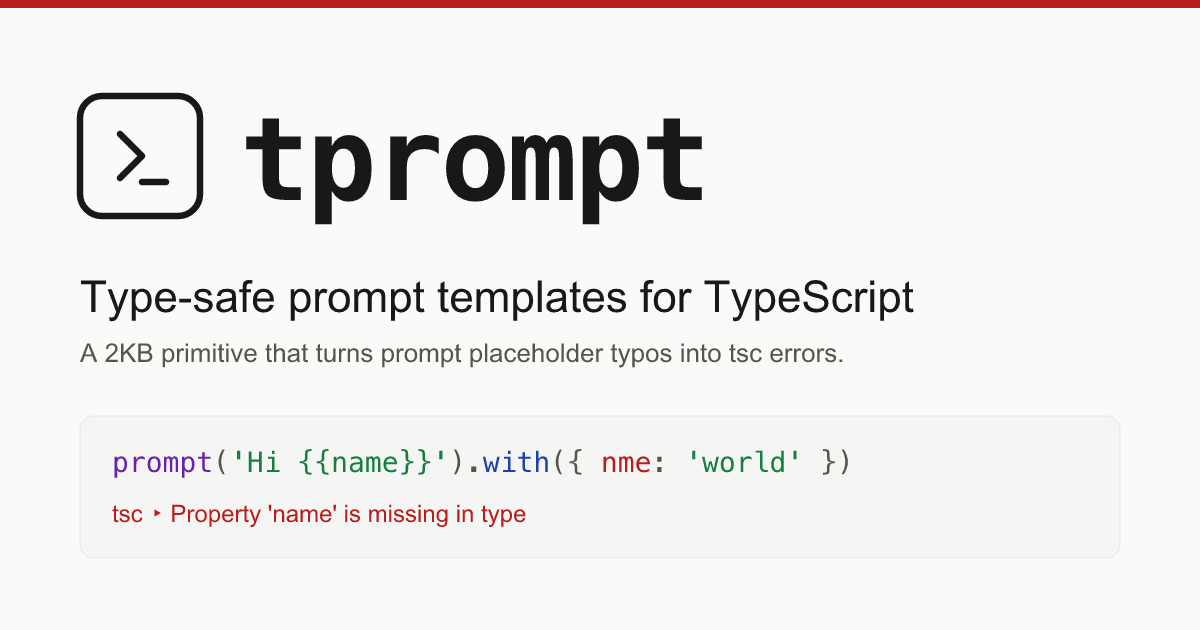
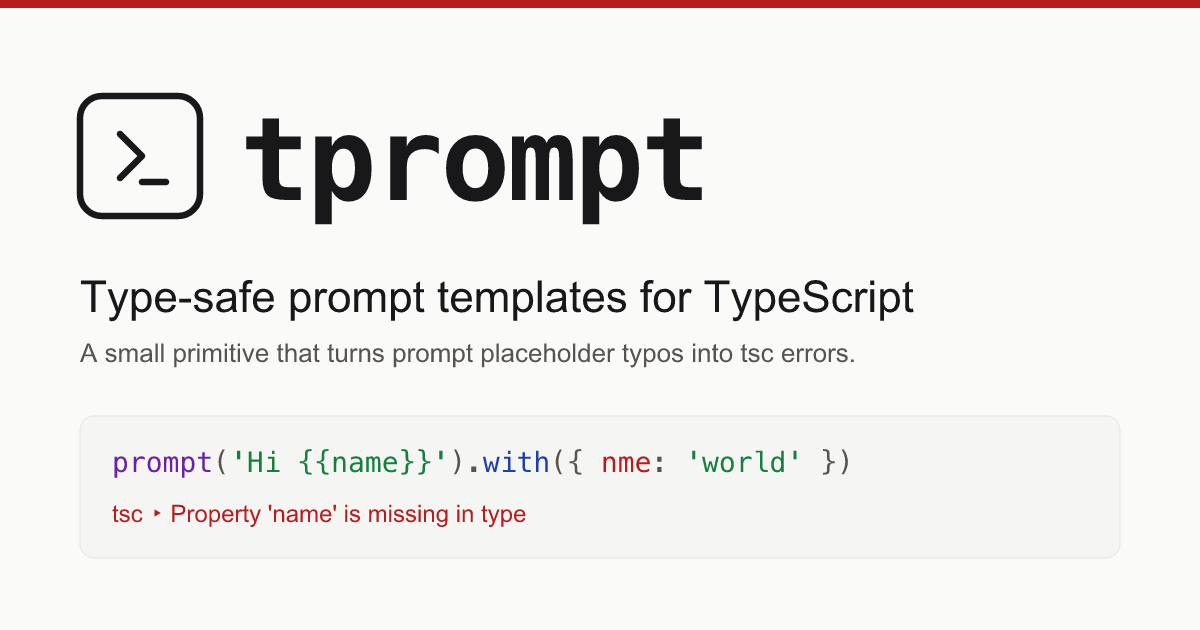
chore: correct stale 2KB size claim across docs site
package.json and README already state accurate figures (~6.5KB
unminified, ~1.4KB gzipped, measured from a fresh dist build). The
docs-site marketing copy and CONTEXT.md still quoted the old 2KB
figure in meta tags, hero copy, the guide page and the OG image.
Regenerated og.png from the updated og.svg.

ADR historical records (docs/adr/000{2,3}) keep their original 2KB
wording intentionally: they document decision-time rationale.

Changed region(s): [[0.0925, 0.5429, 0.7092, 0.573]]

diff --git a/docs-site/src/app.html b/docs-site/src/app.html
@@ -6,7 +6,7 @@
     <meta name="viewport" content="width=device-width, initial-scale=1" />
     <meta
       name="description"
-      content="Type-safe prompt template library for TypeScript. A 2KB primitive that turns prompt placeholder typos into tsc errors."
+      content="Type-safe prompt template library for TypeScript. A small (~1.4KB gzipped) primitive that turns prompt placeholder typos into tsc errors."
     />
     <title>tprompt — type-safe prompt templates for TypeScript</title>
 
@@ -18,7 +18,7 @@
     <meta property="og:title" content="tprompt — type-safe prompt templates for TypeScript" />
     <meta
       property="og:description"
-      content="A 2KB primitive that turns prompt placeholder typos into tsc errors before they reach the model."
+      content="A small (~1.4KB gzipped) primitive that turns prompt placeholder typos into tsc errors before they reach the model."
     />
     <meta property="og:url" content="https://tprompt.pages.dev/" />
     <meta property="og:image" content="https://tprompt.pages.dev/og.png" />
@@ -34,7 +34,7 @@
     <meta name="twitter:title" content="tprompt — type-safe prompt templates for TypeScript" />
     <meta
       name="twitter:description"
-      content="A 2KB primitive that turns prompt placeholder typos into tsc errors before they reach the model."
+      content="A small (~1.4KB gzipped) primitive that turns prompt placeholder typos into tsc errors before they reach the model."
     />
     <meta name="twitter:image" content="https://tprompt.pages.dev/og.png" />
     <meta

diff --git a/docs-site/src/routes/+page.svelte b/docs-site/src/routes/+page.svelte
@@ -8,7 +8,7 @@
   <title>tprompt — type-safe prompt templates for TypeScript</title>
   <meta
     name="description"
-    content="A 2KB primitive that turns prompt placeholder typos into tsc errors before they reach the model."
+    content="A small (~1.4KB gzipped) primitive that turns prompt placeholder typos into tsc errors before they reach the model."
   />
 </svelte:head>
 
@@ -17,14 +17,14 @@
     <div class="hero-copy">
       <span class="badge">
         <span class="dot" aria-hidden="true"></span>
-        v{version} · MIT · 2KB · zero deps
+        v{version} · MIT · ~1.4KB gzip · zero deps
       </span>
       <h1>
         Catch prompt typos<br />
         <span class="accent">before</span> they reach the&nbsp;model.
       </h1>
       <p class="lede">
-        <strong>tprompt</strong> is a 2KB TypeScript primitive that turns
+        <strong>tprompt</strong> is a small (~1.4KB gzipped) TypeScript primitive that turns
         <code>{'{{usrName}}'}</code>
         into a <code>tsc</code> error — not a silent runtime string the model receives.
       </p>
@@ -132,7 +132,7 @@ greet.<span class="fn">with</span>(&lbrace; <span class="bad">usrName</span>: <s
           />
         </svg>
       </div>
-      <h3>2KB. Zero deps.</h3>
+      <h3>~1.4KB gzipped. Zero deps.</h3>
       <p>
         <code>sideEffects: false</code>, ESM source, dual-published. Validation
         is structural — bring Zod, Valibot, ArkType, or your own.

diff --git a/CONTEXT.md b/CONTEXT.md
@@ -1,6 +1,6 @@
 # tprompt
 
-A 2KB TypeScript library that makes LLM prompt variables a first-class type. A typo in `{{usrName}}` becomes a `tsc` error before it reaches the model.
+A small (~1.4KB gzipped) TypeScript library that makes LLM prompt variables a first-class type. A typo in `{{usrName}}` becomes a `tsc` error before it reaches the model.
 
 ## Language
 
